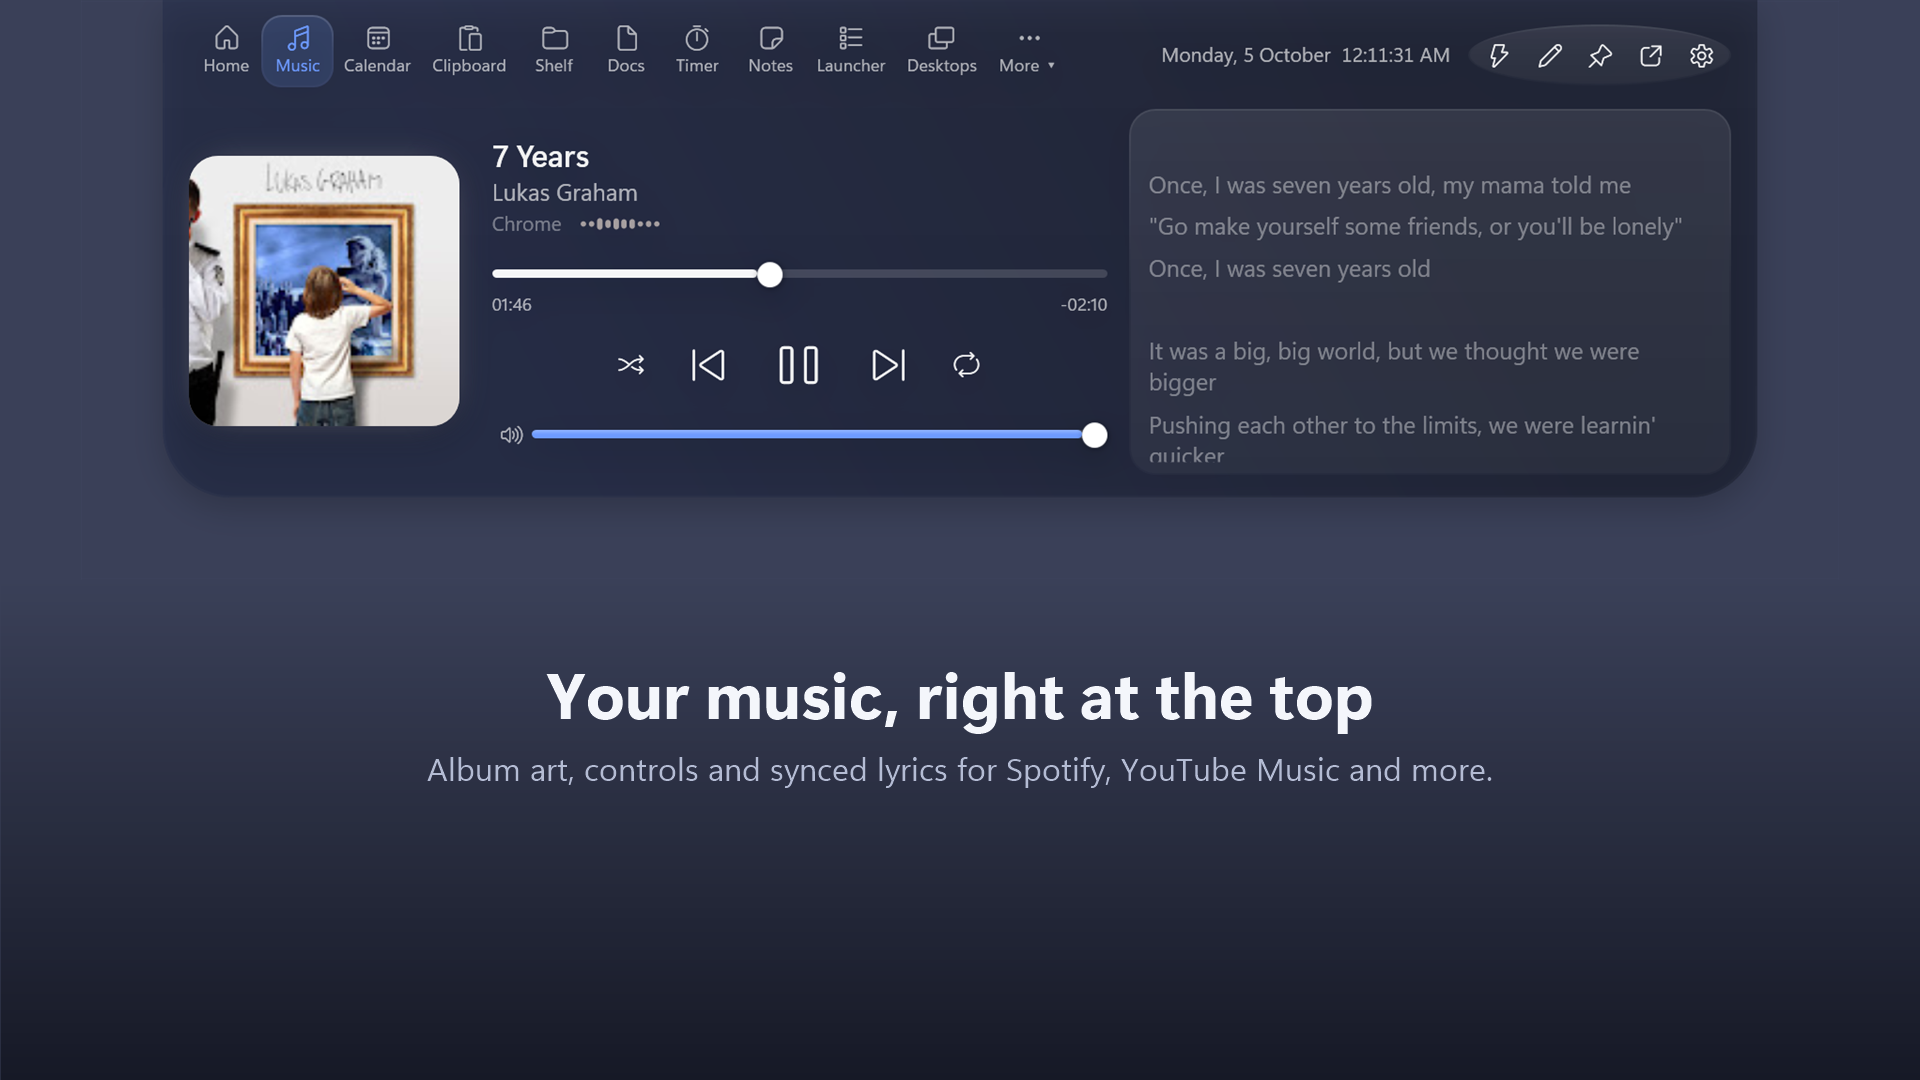
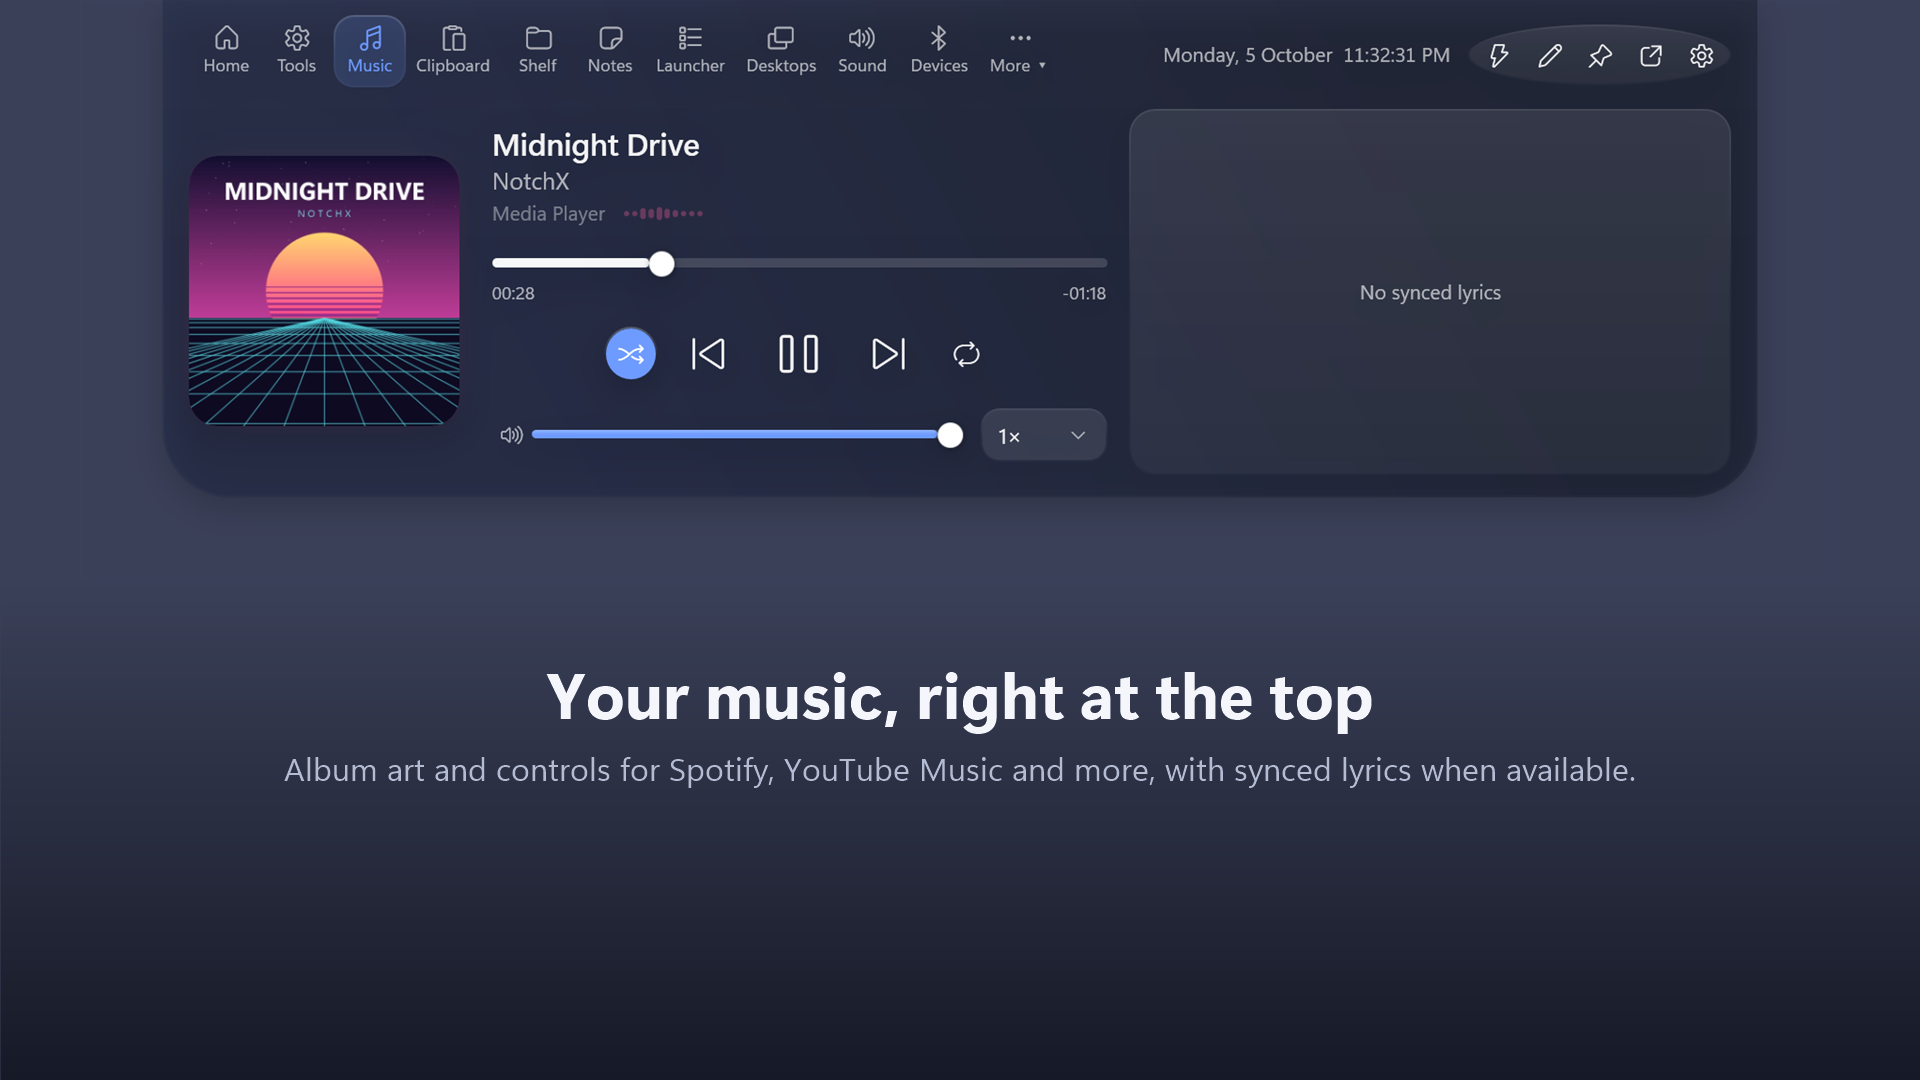
Store music screenshot: original demo track instead of a real song
The music screenshot showed a real album cover and lyrics, which the Store
can reject. It's now rendered while playing "Midnight Drive" by NotchX, an
original synthesised track with our own cover art, so nothing third-party
appears. The source render lives in docs/store/source; the listing's
screenshot order and notes are updated.

diff --git a/docs/store/listing.md b/docs/store/listing.md
@@ -95,15 +95,14 @@ widgets
 Upload in this order, from `docs/store/screenshots/` (1920×1080):
 
 1. `01-home.png`
-2. `03-desktops.png`
-3. `05-themes.png`
-4. `04-documents.png`
-5. `02-music.png`: **see the note below before using it**
+2. `02-music.png`
+3. `03-desktops.png`
+4. `05-themes.png`
+5. `04-documents.png`
 
-> **Note on `02-music.png`:** it shows a real album cover and song lyrics. Microsoft can reject listings
-> that show other people's copyrighted artwork or lyrics. Skip it, or re-shoot it while a royalty-free track
-> is playing (for example from YouTube's Audio Library), using `NotchX.exe --readme-shots <folder>` and then
-> `packaging\store-screenshots.ps1`.
+`02-music.png` was shot while playing an original demo track ("Midnight Drive" by NotchX, with our own cover
+art), so no third-party album art or lyrics appear in the listing. Its source render is
+`docs/store/source/now-playing-demo.png`.
 
 Regenerate all of them with `packaging\store-screenshots.ps1`.
 
